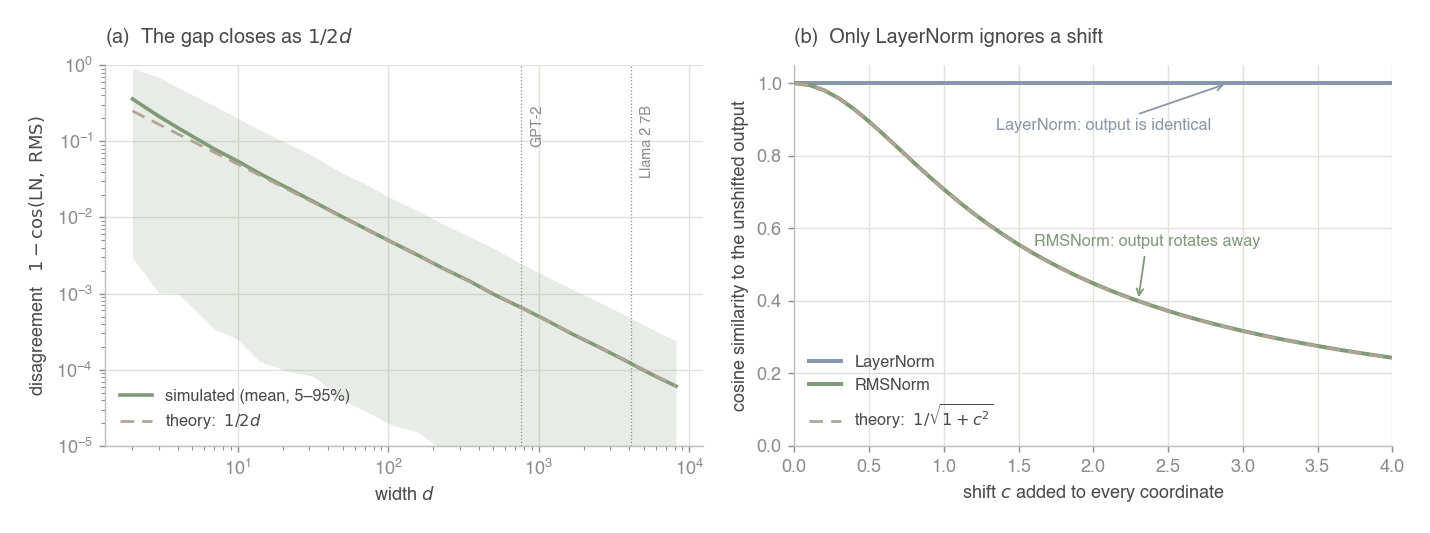
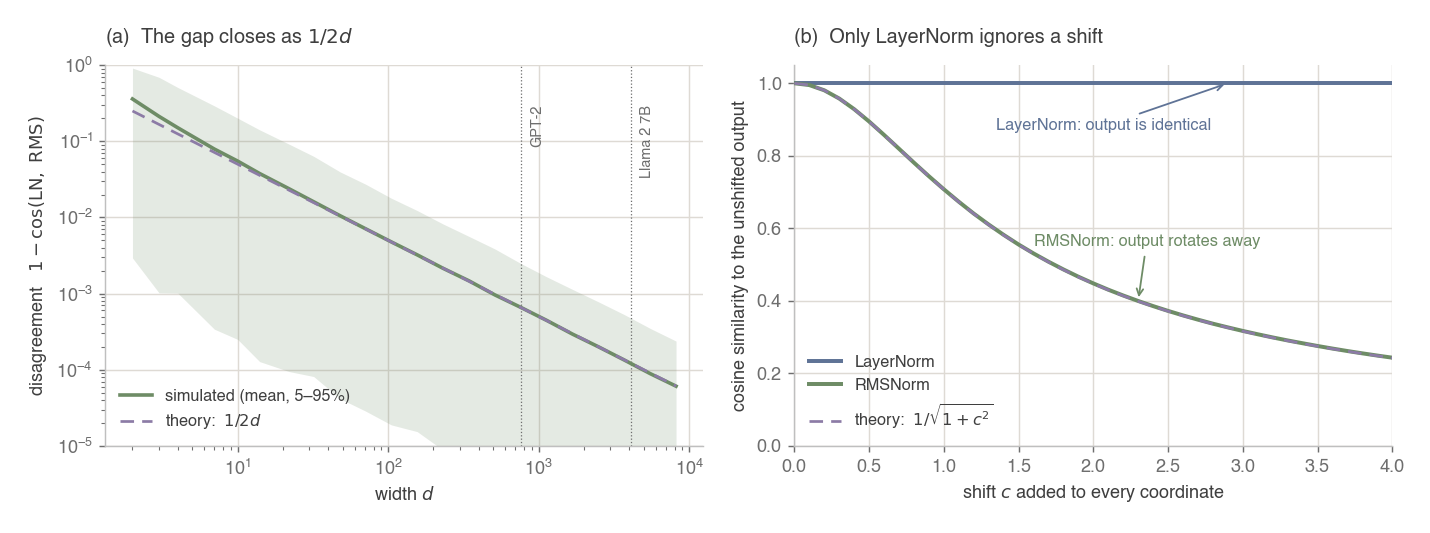
Deepen the Morandi palette, shift neutrals to purple and blue
The pastels were washing out at small sizes. Colours are darker and a
little more saturated, and the grey/taupe neutrals are replaced with
plum, lavender and steel blue. An un-normalized baseline is now plum
rather than taupe across both reproduced figures.

Also fixes a recolouring bug this surfaced: black text sitting on a
coloured box has antialiased edges that blend toward the fill, not toward
white, so changing a box's hue left the text fringed in the old colour.
The script now fits both blend models per pixel and takes the better fit.

Claude-Session: https://claude.ai/code/session_01PKVwGHg9MBsMLRHsxk8Mdi

diff --git a/figures/recolor_paper_figs.py b/figures/recolor_paper_figs.py
@@ -4,12 +4,18 @@ The originals live in figures/originals/ so this is reproducible from the repo.
 Only hue is changed: every pixel keeps its opacity against white, so line
 weights, antialiasing, text and axes are untouched. No data is altered.
 
-Each line-plot pixel is a blend of one pure series colour C with the white
-background:  p = 255 - a*(255 - C).  For each pixel we solve for `a` against
-every known source colour by least squares, keep the best fit if its residual
-is small, and re-emit the pixel with the replacement colour C':
-    p' = 255 - a*(255 - C')
-Pixels that fit nothing well (black text, grey gridlines) are left alone.
+Two blend models are fitted per pixel, against every known source colour C:
+
+    toward white   p = 255 - a*(255 - C)     antialiased line and box edges
+    toward black   p = b*C                   antialiased text sitting on a fill
+
+The better fit wins, and the pixel is re-emitted with the replacement colour C'
+under the same model. The second model matters whenever a figure has black
+text on a coloured box: those edge pixels are blends of C with black, and
+without it they keep the old hue and fringe the text.
+
+Pixels that fit nothing well, and all near-grey pixels (black text, grey
+gridlines, axes), are left alone.
 
 Run:  python3 figures/recolor_paper_figs.py
 """
@@ -25,11 +31,11 @@ OUT = os.path.join(os.path.dirname(HERE), 'static', 'images')
 
 # The site palette. Semantics are kept consistent across every figure:
 # LayerNorm is dusty blue, RMSNorm is sage green, an un-normalized baseline is
-# taupe. These match figures/norm_comparison.py.
-LN = '#8896AB'
-RMS = '#7E9B76'
-BASE = '#B0A79B'
-PARTIAL = '#BC9A93'
+# plum. These match figures/norm_comparison.py.
+LN = '#5F7396'
+RMS = '#6E8C66'
+BASE = '#8B7194'
+PARTIAL = '#A87D76'
 
 
 def rgb(h):
@@ -47,29 +53,35 @@ def recolour(img, mapping, tol=45.0):
     chromatic = (flat.max(1) - flat.min(1)) > 22
 
     best_res = np.full(len(ink), np.inf)
-    best_alpha = np.zeros(len(ink))
+    best_coef = np.zeros(len(ink))
     best_idx = np.full(len(ink), -1)
+    best_model = np.zeros(len(ink), dtype=np.int8)   # 0 = white, 1 = black
 
     for k, (src, _dst) in enumerate(mapping):
-        d = 255.0 - rgb(src)                     # direction for this series
-        denom = float(d @ d)
-        alpha = (ink @ d) / denom
-        resid = np.linalg.norm(ink - alpha[:, None] * d[None, :], axis=1)
-        take = (resid < best_res) & (alpha > 0.04) & (alpha < 1.15) & chromatic
-        best_res[take] = resid[take]
-        best_alpha[take] = alpha[take]
-        best_idx[take] = k
+        c = rgb(src)
+        for model, basis, obs in ((0, 255.0 - c, ink), (1, c, flat)):
+            coef = (obs @ basis) / float(basis @ basis)
+            resid = np.linalg.norm(obs - coef[:, None] * basis[None, :], axis=1)
+            take = ((resid < best_res) & (coef > 0.04) & (coef < 1.15)
+                    & chromatic)
+            best_res[take] = resid[take]
+            best_coef[take] = coef[take]
+            best_idx[take] = k
+            best_model[take] = model
 
-    out = ink.copy()
+    out = flat.copy()
     for k, (_src, dst) in enumerate(mapping):
-        sel = (best_idx == k) & (best_res < tol)
-        if not sel.any():
-            continue
-        out[sel] = best_alpha[sel][:, None] * (255.0 - rgb(dst))[None, :]
-        print('      %s -> %s  (%d px)' % (_src, dst, sel.sum()))
+        c2 = rgb(dst)
+        hit = (best_idx == k) & (best_res < tol)
+        white = hit & (best_model == 0)
+        black = hit & (best_model == 1)
+        out[white] = 255.0 - best_coef[white][:, None] * (255.0 - c2)[None, :]
+        out[black] = best_coef[black][:, None] * c2[None, :]
+        print('      %s -> %s  (%d px: %d edge, %d text)'
+              % (_src, dst, hit.sum(), white.sum(), black.sum()))
 
     return Image.fromarray(
-        np.clip(255.0 - out, 0, 255).reshape(h, w, 3).astype(np.uint8))
+        np.clip(out, 0, 255).reshape(h, w, 3).astype(np.uint8))
 
 
 def flatten(path):
@@ -109,10 +121,11 @@ im.resize((im.width * 3, im.height * 3), Image.LANCZOS).save(
 # -- Xiong et al. (2020), Figure 1, split into its two panels ---------------
 print('xiong2020-fig1-preln-postln.png')
 im = flatten(os.path.join(SRC, 'xiong2020-fig1-preln-postln.png'))
-im = recolour(im, [('#a9d18e', '#A3BC97'),   # Layer Norm boxes -> sage
-                   ('#8faadc', '#A9B7CB'),   # FFN box -> dusty blue
-                   ('#ffd966', '#DFCCA3'),   # Attention box -> sand
-                   ('#2f528f', '#6E7C93')],  # box outlines
+# Box fills sit behind black text, so they stay lighter than the line colours.
+im = recolour(im, [('#a9d18e', '#8FB183'),   # Layer Norm boxes -> sage
+                   ('#8faadc', '#8DA3C6'),   # FFN box -> dusty blue
+                   ('#ffd966', '#C7B0D2'),   # Attention box -> lilac
+                   ('#2f528f', '#4F5F7D')],  # box outlines
              tol=60)
 panels = {'transformer-postln-block.png': im.crop((0, 0, 303, im.height)),
           'transformer-preln-block.png': im.crop((303, 0, im.width, im.height))}

diff --git a/figures/norm_comparison.py b/figures/norm_comparison.py
@@ -19,12 +19,12 @@ OUT = os.path.join(os.path.dirname(os.path.dirname(os.path.abspath(__file__))),
 
 # Muted Morandi-ish palette, warm greys with a sage green that matches the
 # site's post icon.
-LN = '#8896AB'        # dusty blue
-RMS = '#7E9B76'       # sage green
-REF = '#B3A394'       # taupe, used for analytic reference curves
-GRID = '#E4E1DC'
-TEXT = '#4A4A4A'
-MUTED = '#8C8C8C'
+LN = '#5F7396'        # dusty blue
+RMS = '#6E8C66'       # sage green
+REF = '#8C7BA6'       # lavender, used for analytic reference curves
+GRID = '#DEDAD4'
+TEXT = '#3F3F3F'
+MUTED = '#6E6E6E'
 
 plt.rcParams.update({
     'font.family': 'sans-serif',

diff --git a/build.py b/build.py
@@ -350,9 +350,10 @@ def highlight_code(code, lang):
     return "<div class='highlight'><pre>%s</pre></div>" % html.escape(code)
 
 
-# Muted Morandi tones, cycled across the table of contents.
-TOC_COLOURS = ['#A3B1A1', '#A9B5C4', '#C7B8A8', '#C9AFA6',
-               '#B3AEC1', '#BFC0A8', '#C4A88F', '#9FB0AB']
+# Muted Morandi tones, cycled across the table of contents. Deeper than a
+# pastel so the accent bars read at small sizes, weighted toward blue/purple.
+TOC_COLOURS = ['#5F7396', '#7E6B91', '#6E8C66', '#A87D76',
+               '#6B8FA8', '#8C6A9E', '#5F8A8B', '#9C7B62']
 
 WORDS_PER_MINUTE = 220
 

diff --git a/posts/2026-08-11-rmsnorm-vs-layernorm.md b/posts/2026-08-11-rmsnorm-vs-layernorm.md
@@ -66,7 +66,7 @@ is of the slot itself.
         <br>
         Reproduced figures throughout this post are recoloured to the
         palette used here, so that LayerNorm is always blue, RMSNorm always
-        green, and an un-normalized baseline always taupe. Only hue is
+        green, and an un-normalized baseline always plum. Only hue is
         changed; no data is altered.
         <br>
         Figure 1, Xiong et al. (2020), split into its two panels and
@@ -301,7 +301,7 @@ years apart, on the same benchmark, with the same axes.
                 <span class='who'>2016 — the case for LayerNorm.</span>
                 <b>Order-Embedding + LN</b> (blue) climbs faster and settles
                 about a point higher than the un-normalized
-                <b>Order-Embedding</b> (taupe). This is the gain that made
+                <b>Order-Embedding</b> (plum). This is the gain that made
                 LayerNorm standard.
             </div>
             <div class='source'>
@@ -315,7 +315,7 @@ years apart, on the same benchmark, with the same axes.
                 <span class='who'>2019 — the case for RMSNorm.</span>
                 <b>RMSNorm</b> (green) and <b>pRMSNorm</b> (rose) sit on top of
                 <b>LayerNorm</b> (blue), all clearly above <b>Baseline</b>
-                (taupe). Deleting the mean subtraction cost nothing.
+                (plum). Deleting the mean subtraction cost nothing.
             </div>
             <div class='source'>
                 Figure 2(a), Zhang &amp; Sennrich (2019), recoloured.
